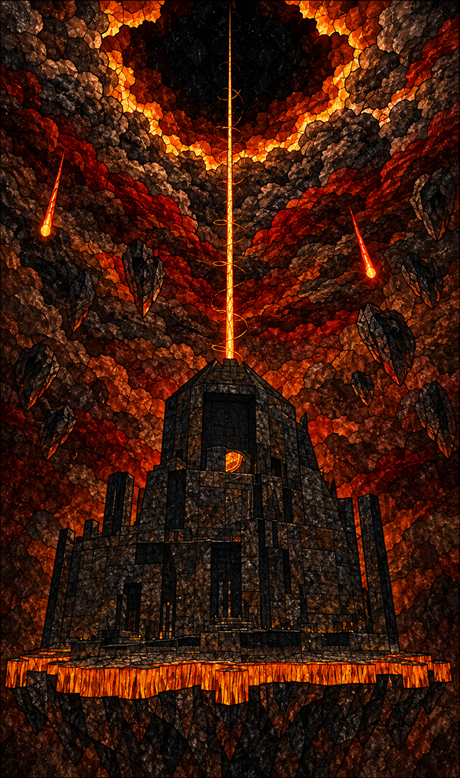
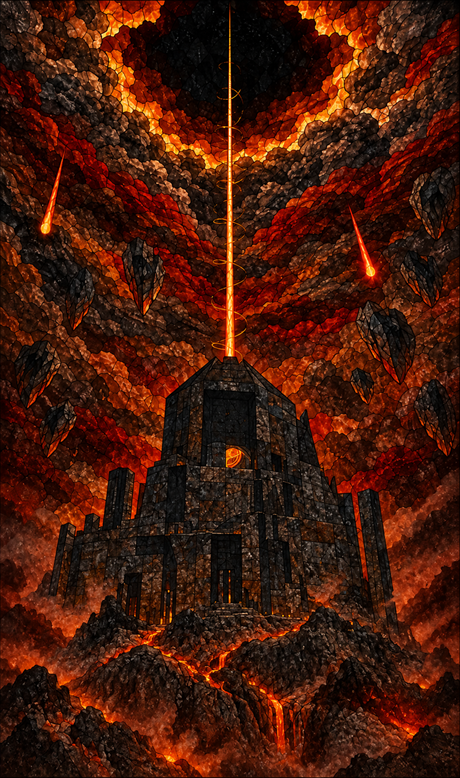
Soften the intro fortress terrain and lava transition

diff --git a/_docs/utnt/NEUERUNGEN.md b/_docs/utnt/NEUERUNGEN.md
@@ -21,7 +21,7 @@
 - **Reforged menu artwork:** pixel-art Quake lettering, amber rune bands and a central seal, with vertically centered skull seals and softly fading amber glow; title with clean alpha edges and transparent selectors at native and double resolution. [Details](UTNT_MENU_LOGO.md)
 - **Menus and class selection:** illustrated class cards, organized Remaster options in both native menus with restored ability/environment controls, three visual presets, bronze-and-parchment colors with gold selection, a matching menu cursor, darker backgrounds and consistent BIGFONT text with concise episode translations. [Details](UTNT_USABILITY.md), [Refinements](UTNT_TESTER_FEEDBACK.md)
 - **Chapter reader:** self-paced pages with larger body text across chapter and intro dialogs, opaque chapter illustrations in a two-thirds text / one-third image layout, matching bronze frames, a staged sharp-to-soft background reveal, smooth image crossfades, original voice recordings, saved reading progress and independent cooperative reading; shared, skippable TNT04A intro. [Chapters](UTNT_INTERMISSION.md), [Intro](UTNT_INTRO_CHAPTER.md)
-- **Stained-glass chapters:** all sixteen chapter illustrations and two dedicated TNT04A intro portraits recreated in the approved dark, weathered glass style, with full rectangular artwork and matching proportions; the intro moves from the TNT04CN exterior to the ritual chamber. [Details](UTNT_STAINED_GLASS.md)
+- **Stained-glass chapters:** all sixteen chapter illustrations and two dedicated TNT04A intro portraits recreated in the approved dark, weathered glass style, with full rectangular artwork and matching proportions; the intro moves from the TNT04CN exterior, with natural volcanic terrain and soft lava haze, to the ritual chamber. [Details](UTNT_STAINED_GLASS.md)
 - **Unified transitions:** narration, artwork and saved chapter/campaign results; distinct solo plaques and cooperative comparisons, including combat, weapon and ability use, collected health/armor, tied leaders and team readiness; black fades keep gameplay overlays hidden. [Details](UTNT_INTERMISSION.md)
 - **Cinematic credits:** compact animated bronze cards, Remaster contributor credits, an AI-assistance acknowledgement and personal dedications, smoother pacing, camera transitions and an uninterrupted final flight. [Details](UTNT_CREDITS.md)
 - **Ending atmosphere:** “Ash & Ember” color treatment, grain and stable depth of field; storm sky, glowing crater fracture and an amber lightning-and-spark finale. [Credits](UTNT_CREDITS.md), [Sky](UTNT_ENDMAP_SKY.md)

diff --git a/_docs/utnt/UTNT_STAINED_GLASS.md b/_docs/utnt/UTNT_STAINED_GLASS.md
@@ -68,7 +68,8 @@ tutnt/.codex/logs/interms-stained-glass-packed.log.
 I_INTROA and I_INTROB are two dedicated opaque 460 x 778 portraits, replacing
 widescreen background resources in the reader's right column. A adapts the user's
 TNT04CN screenshot: a floating basalt fortress beneath a fiery storm opening,
-with an amber beam, suspended rocks and a lava-edged platform. B is the unchanged
+with an amber beam, suspended rocks and organic volcanic foothills. Lava rivulets
+and ember haze blend the uneven ground into the surrounding sky. B is the unchanged
 former first portrait of the towering Source ritual chamber and amber seal.
 Both use I_06A as the stained-glass style reference. The original TNTE4 backgrounds
 are preserved. The shared reader fits the illustrations proportionally and draws
@@ -78,7 +79,8 @@ The built-in Imagegen tool authored both illustrations. Production export applie
 uniform bicubic downsampling and a small central crop to match 460:778 exactly;
 the sigil and architecture are never stretched. Local masters are retained under
 tutnt/.codex/work/intro-stained-glass/ (chamber) and
-tutnt/.codex/work/intro-stained-glass-exterior/ (fortress). The user screenshot
+tutnt/.codex/work/intro-stained-glass-exterior/ (fortress) and
+tutnt/.codex/work/intro-organic-rock/ (organic rock and atmospheric lava revision). The user screenshot
 is retained under tutnt/.codex/references/intro-stained-glass/TNT04CN.png.
 [Intro prompts](../../tools/artwork/intro-stained-glass/prompts.json) and
 [manifest](../../tools/artwork/intro-stained-glass/manifest.json) record provenance.
@@ -95,3 +97,9 @@ at 1280 x 720; both displayed positions were visually reviewed. SHA-256 confirms
 that position B is byte-identical to the former A. Evidence:
 tutnt/.codex/validation/intro-stained-glass-exterior/ and
 tutnt/.codex/logs/intro-glass-exterior-a.png / intro-glass-exterior-b.png.
+
+The organic-rock refinement passed the seven intro resource/layout assertions.
+The first portrait was visually reviewed in the German 1280 x 720 reader;
+both images remain opaque 460 x 778, and B retains its previous hash.
+Evidence: tutnt/.codex/validation/intro-organic-rock/ and
+tutnt/.codex/logs/intro-organic-rock.png.
